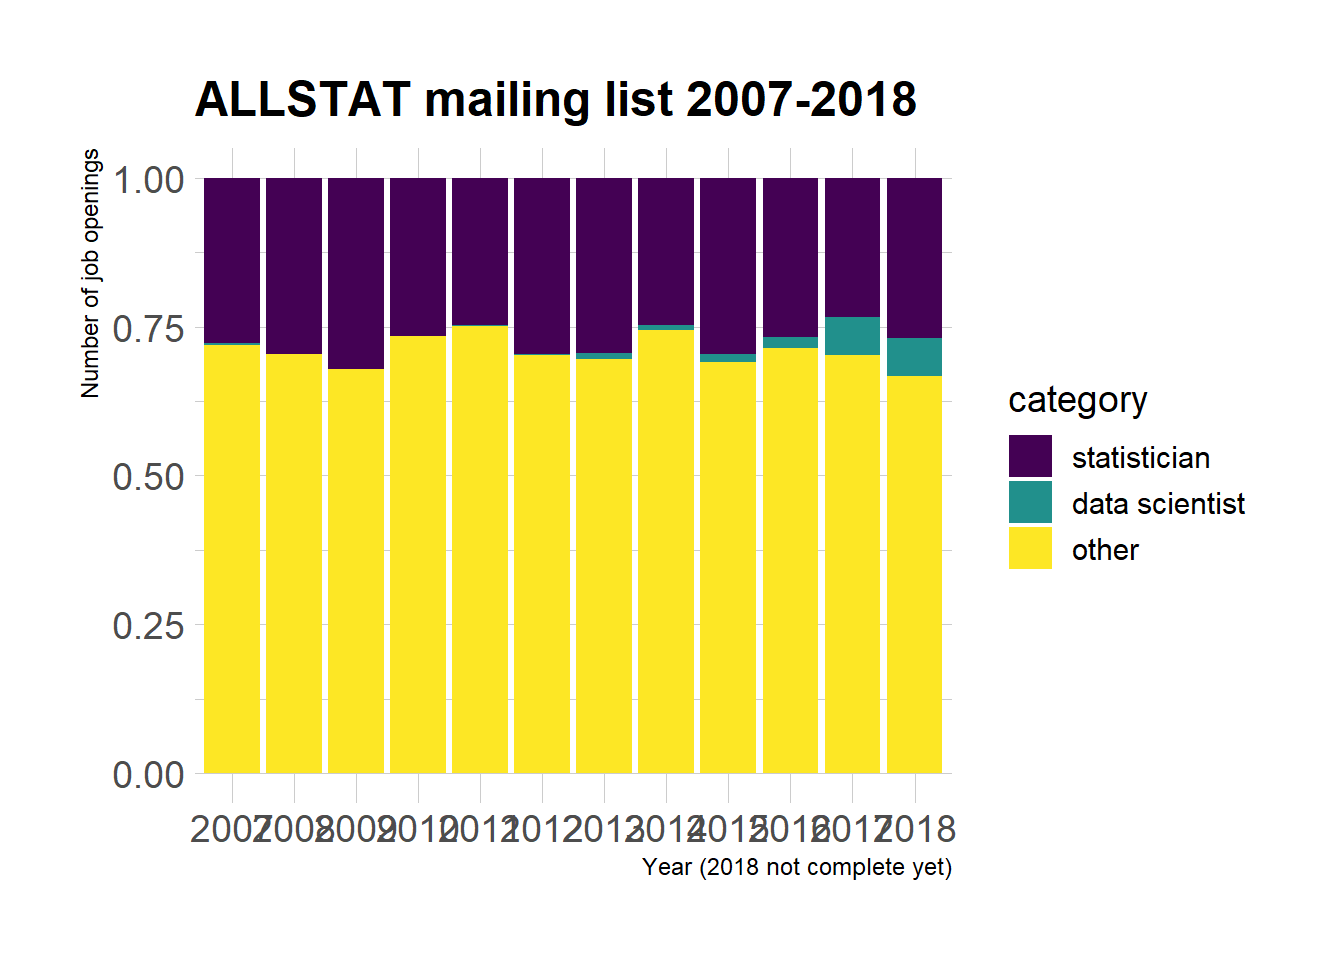
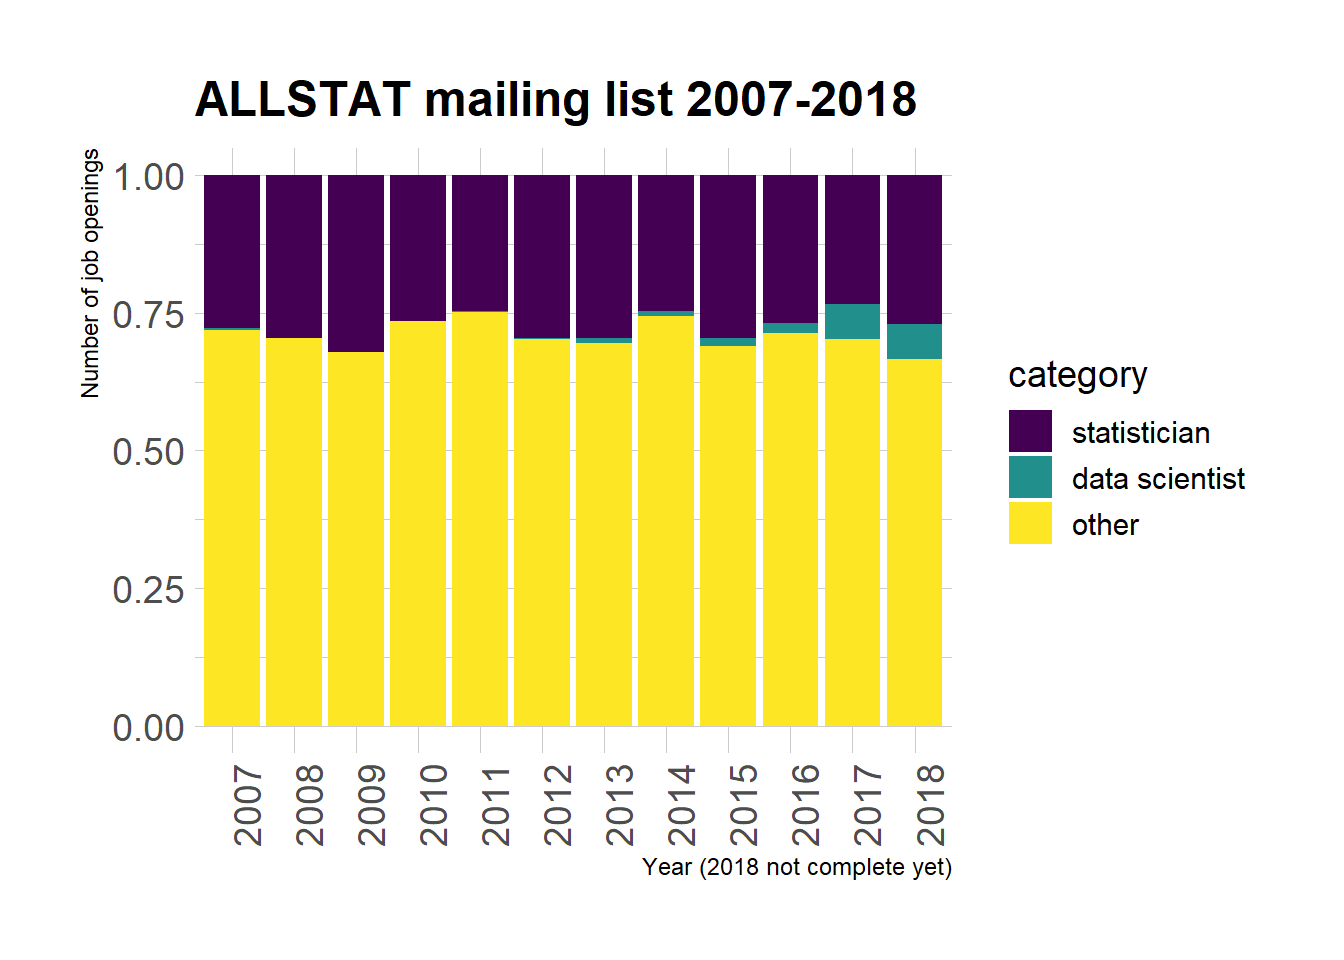
rotate labels

diff --git a/content/post/2018-07-31-alldatascience.html b/content/post/2018-07-31-alldatascience.html
@@ -300,6 +300,7 @@ ggplot(jobs) +
   hrbrthemes::theme_ipsum(base_size = 14) +
   xlab(&quot;Year (2018 not complete yet)&quot;) +
   ylab(&quot;Number of job openings&quot;) +
+  theme(axis.text.x = element_text(angle = 90, hjust = 1)) +
   ggtitle(&quot;ALLSTAT mailing list 2007-2018&quot;)</code></pre>
 <p><img src="/post/2018-07-31-alldatascience_files/figure-html/unnamed-chunk-6-1.png" width="672" /></p>
 <p>I like this bar plot that shows how the total number of job openings fluctuates, but it’s hard to see differences in proportions.</p>
@@ -310,7 +311,8 @@ ggplot(jobs) +
   theme(legend.position = &quot;bottom&quot;) +
   hrbrthemes::theme_ipsum(base_size = 14) +
   xlab(&quot;Year (2018 not complete yet)&quot;) +
-  ylab(&quot;Number of job openings&quot;) +
+  ylab(&quot;Number of job openings&quot;)  +
+  theme(axis.text.x = element_text(angle = 90, hjust = 1))+
   ggtitle(&quot;ALLSTAT mailing list 2007-2018&quot;)</code></pre>
 <p><img src="/post/2018-07-31-alldatascience_files/figure-html/unnamed-chunk-7-1.png" width="672" /></p>
 <p>According to this plot, although there seems to be more and more data scientists’ jobs advertised on ALLSTAT… Statisticians don’t need to get worried just yet.</p>
